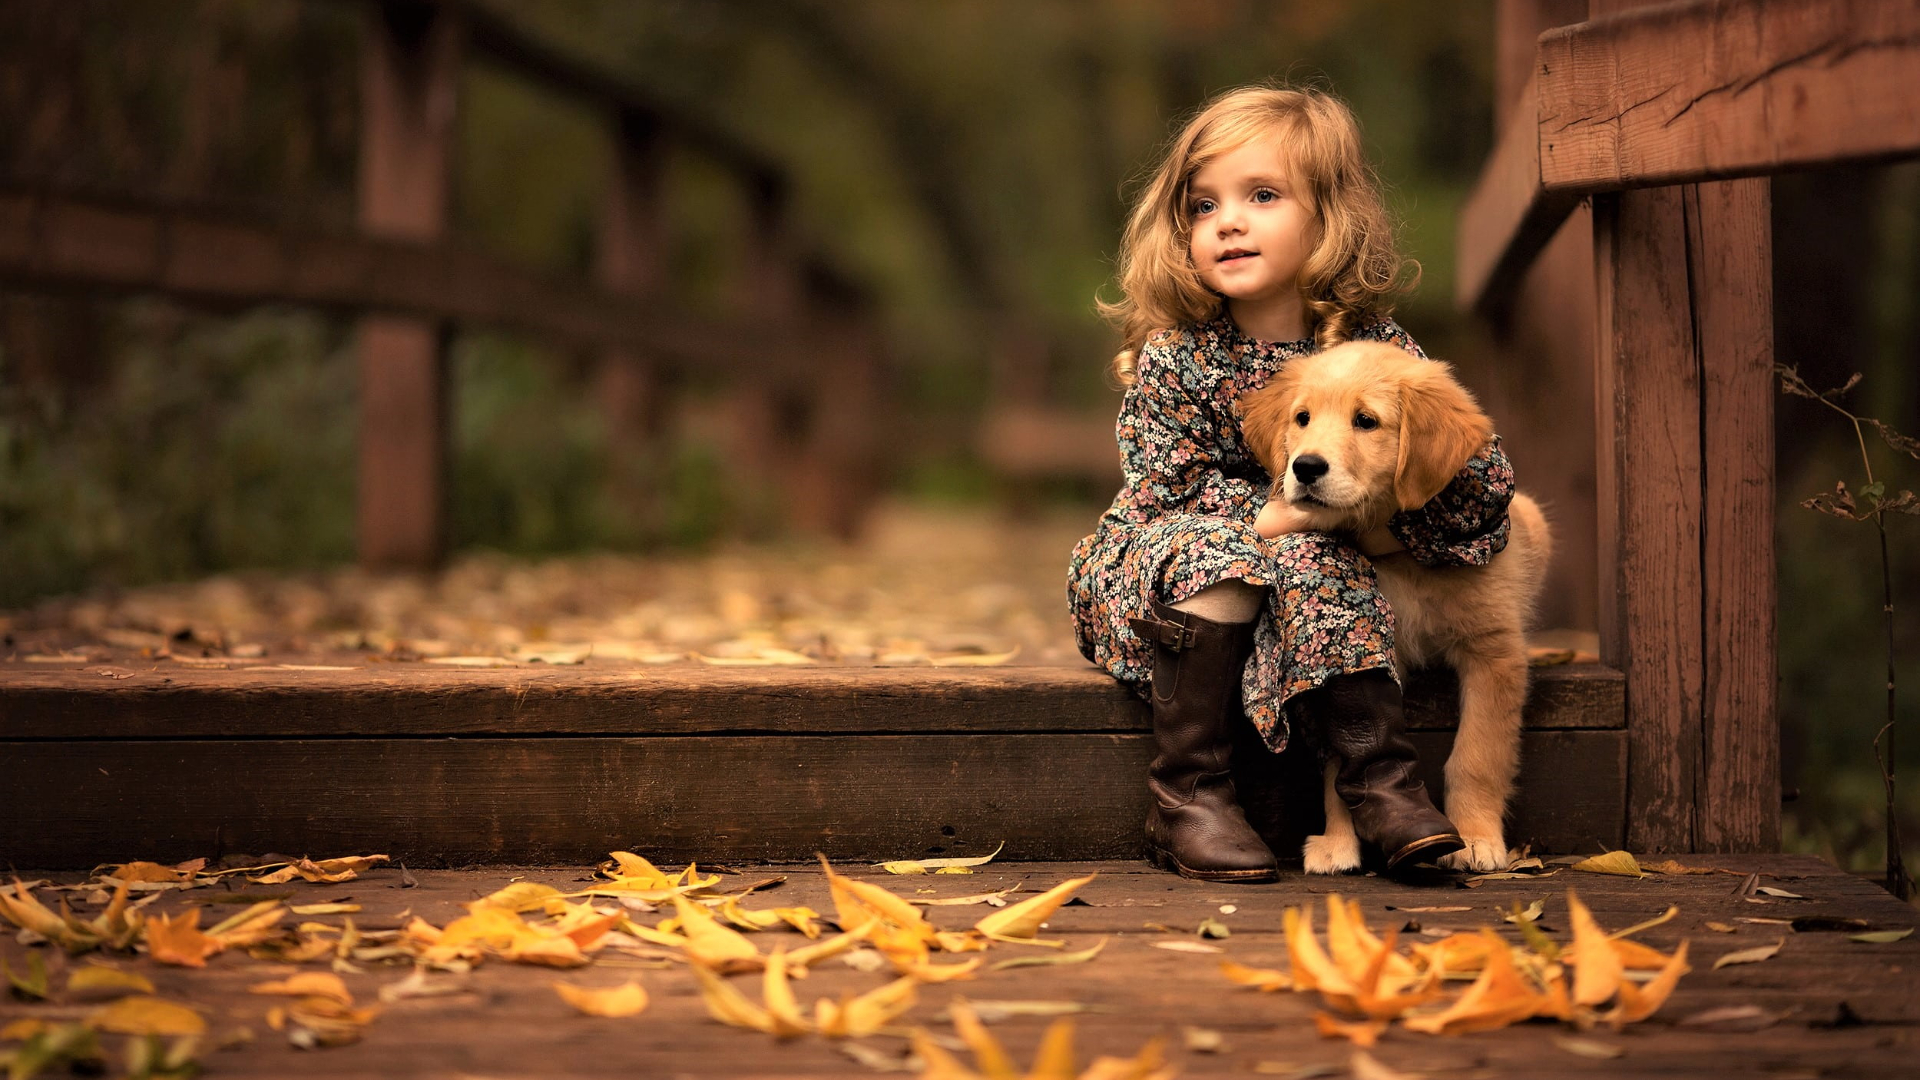
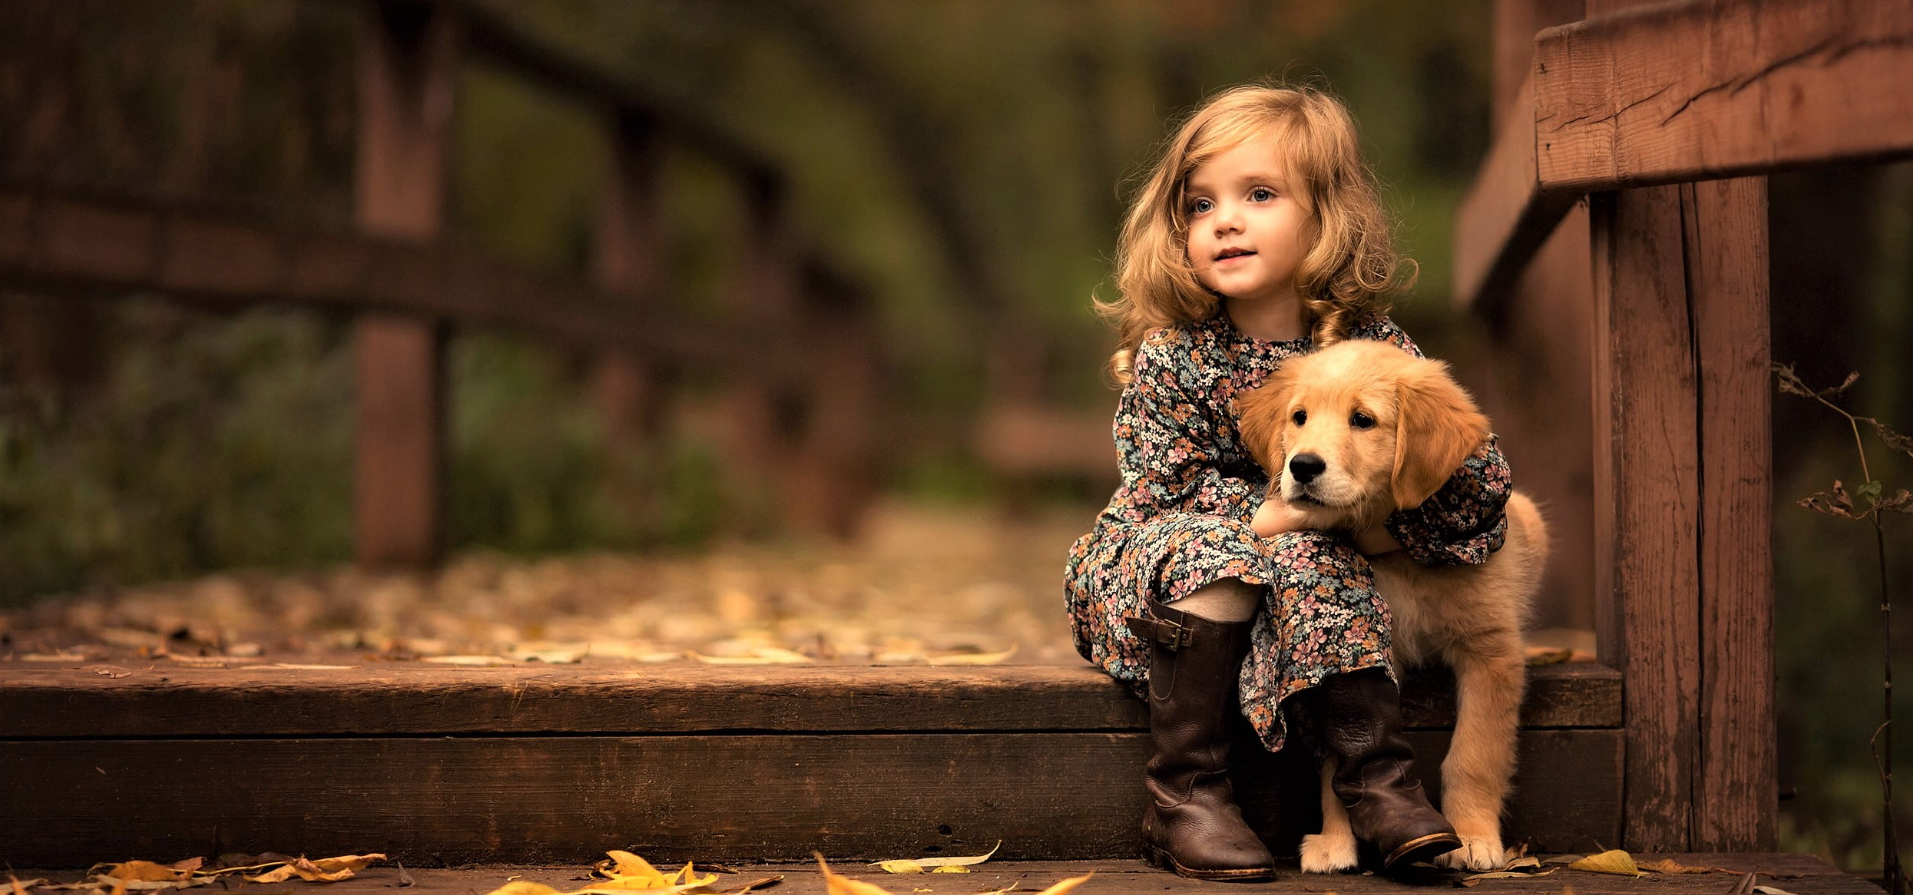
update

diff --git a/project_views/home.html b/project_views/home.html
@@ -47,21 +47,21 @@
                 <li data-bs-target="#myCarousel" data-bs-slide-to="2"></li>
             </ol>
             <div class="carousel-inner">
-                <div class="carousel-item active">
+                <div class="carousel-item active" style="background-image: url(./images/header.png)">
                     <div class="container">
                         <h1>Example</h1>
                         <p>Lorem ipsum dolor sit amet consectetur adipisicing elit. Beatae, exercitationem.</p>
                         <a href="#" class="btn btn-lg btn-primary">Sign Up</a>
                     </div>
                 </div>
-                <div class="carousel-item">
+                <div class="carousel-item" style="background-image: url(./images/header2.png)">
                     <div class="container">
                         <h1>Example</h1>
                         <p>Lorem ipsum dolor sit amet consectetur adipisicing elit. Beatae, exercitationem.</p>
                         <a href="#" class="btn btn-lg btn-primary">Sign Up</a>
                     </div>
                 </div>
-                <div class="carousel-item">
+                <div class="carousel-item" style="background-image: url(./images/header3.png)">
                     <div class="container">
                         <h1>Example</h1>
                         <p>Lorem ipsum dolor sit amet consectetur adipisicing elit. Beatae, exercitationem.</p>

diff --git a/project_views/styles/carousel.css b/project_views/styles/carousel.css
@@ -1,8 +1,10 @@
 .carousel-item{
-    height: 32rem;
+    height: 720px;
     background: #777;
     color: white;
     position: relative;
+    background-position: center;
+    background-size: cover;
 }
 
 .container {
@@ -11,7 +13,4 @@
     left: 0;
     right: 0;
     padding-bottom: 50px;
-
-
-
 }
